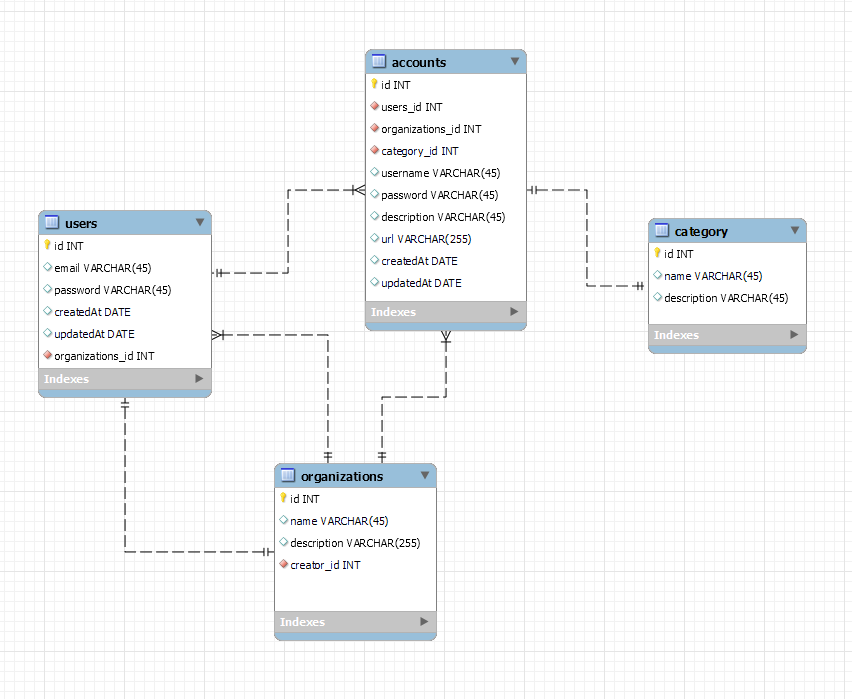
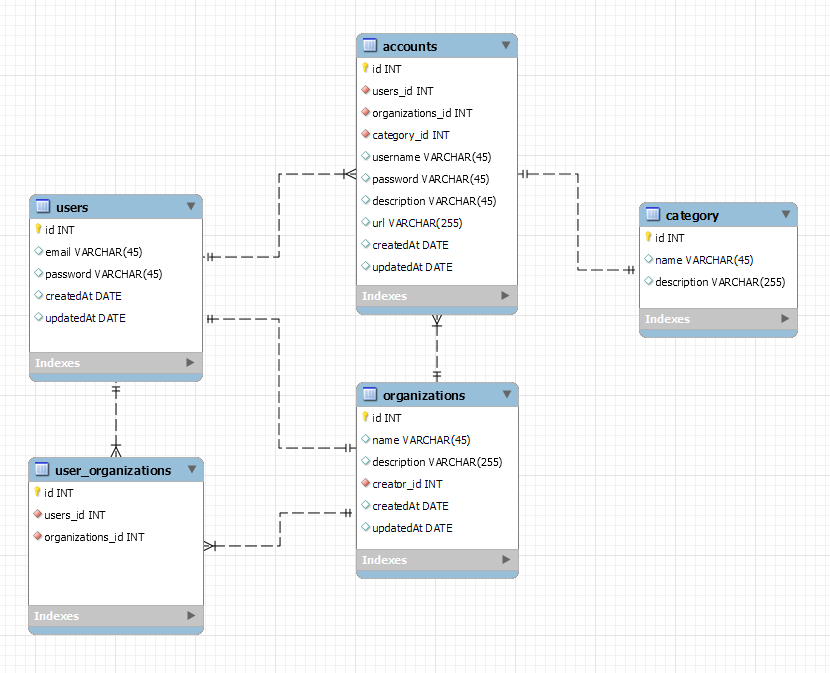
🔥 Chore: Changed ERD AND Added migrations and seeds

Changed region(s): [[0.0301, 0.0312, 0.6928, 0.9361], [0.6627, 0.2808, 0.9639, 0.5305], [0.0301, 0.8737, 0.2711, 0.9673]]

diff --git a/docs/README.md b/docs/README.md
@@ -23,7 +23,8 @@
 - [ ] For this app, it is ok to store the passwords as string but remember that this is not the way for production apps! As a stretch feature, consider storing a masterkey, which is used to encrypt each and de-encrypt incoming information from the server to the client. Reading into what salting is for passwords will be the first step for this stretch.
 
 ## ERD
-![passwordkeepr_erd](https://user-images.githubusercontent.com/8416681/143723176-fa46f44a-5dec-4365-ad43-bb042f539caa.PNG)
+
+![passwordkeepr_erd](./passwordkeepr_erd.png)
 
 ## Wireframes
 
